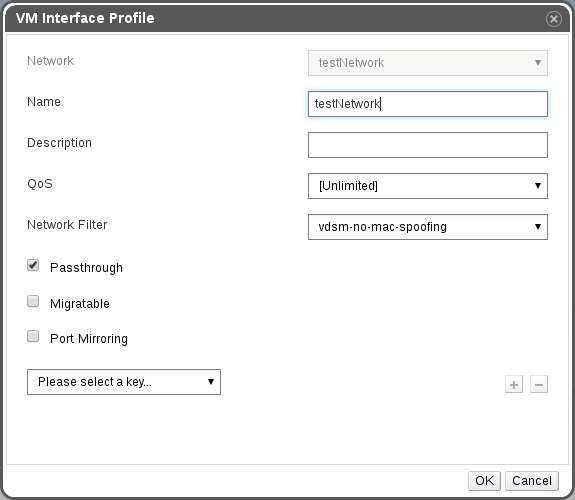
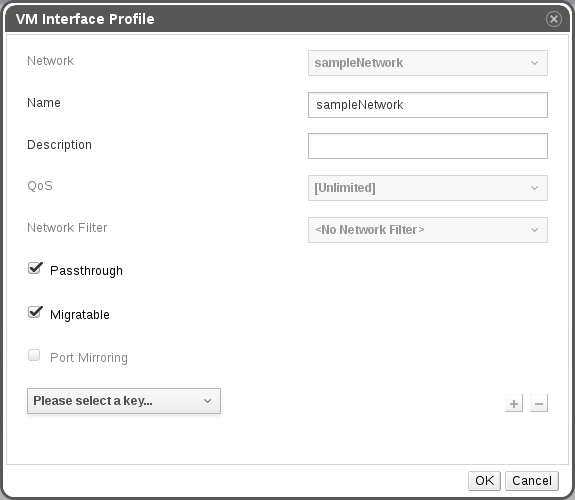
fixes in liveMigrationSupportForSRIOV.html.md
• fixed screenshot
• fixed code highlight
• fixed bad title of guest-side support clause

diff --git a/source/develop/release-management/features/network/liveMigrationSupportForSRIOV.html.md b/source/develop/release-management/features/network/liveMigrationSupportForSRIOV.html.md
@@ -52,12 +52,18 @@ destination, the VM would not be migrated back.
 ### REST
 
 Model will be altered, so that vNicProfile can be set as migratable:
-```
+
+```java
 @Type
 public interface VnicProfile extends Identified {
-    …
+    
+    //...
+    
     VnicPassThrough passThrough();
     boolean migratable();
+    
+    //...
+}    
 ```
 
 ### GUI
